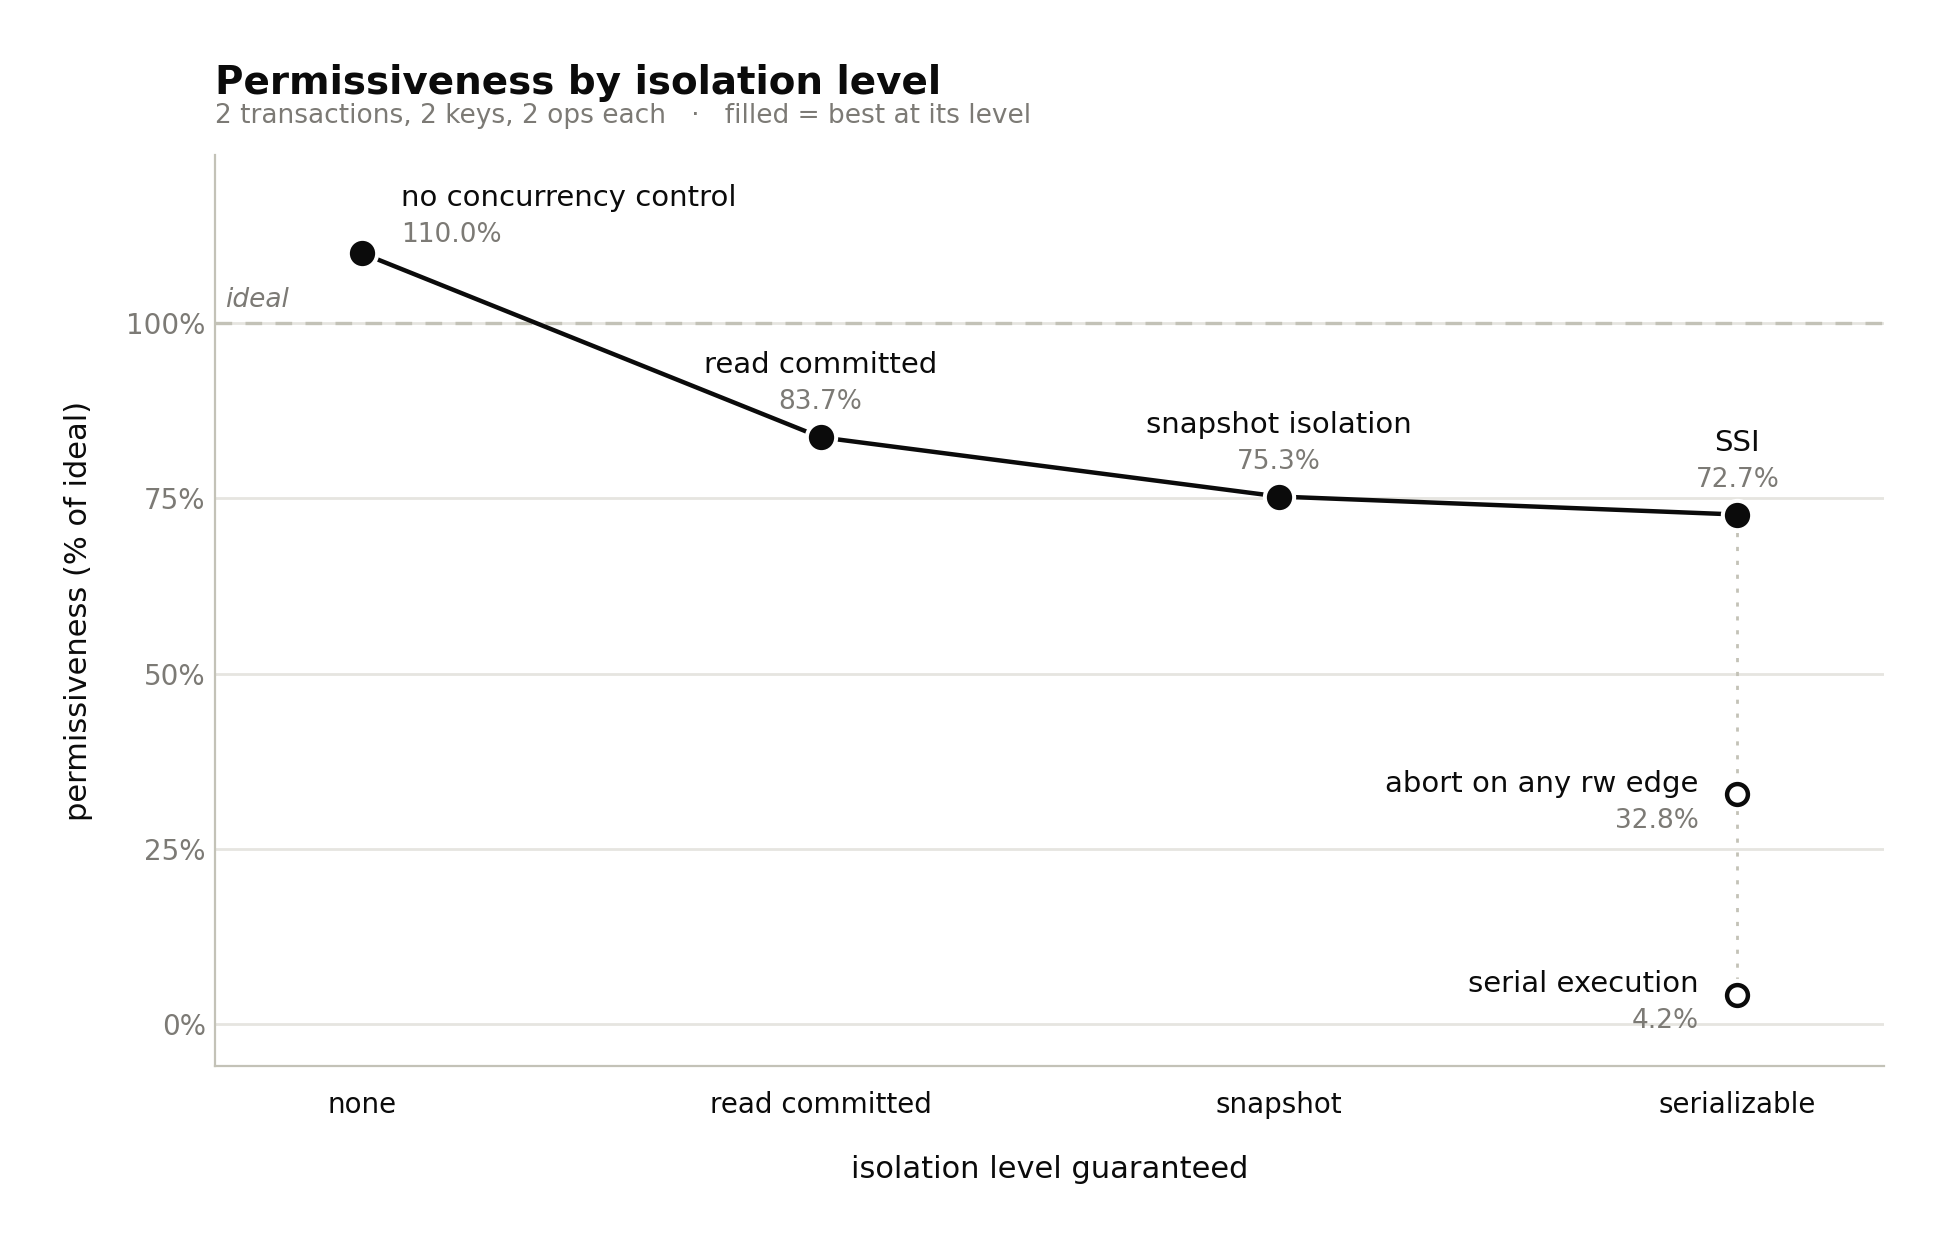
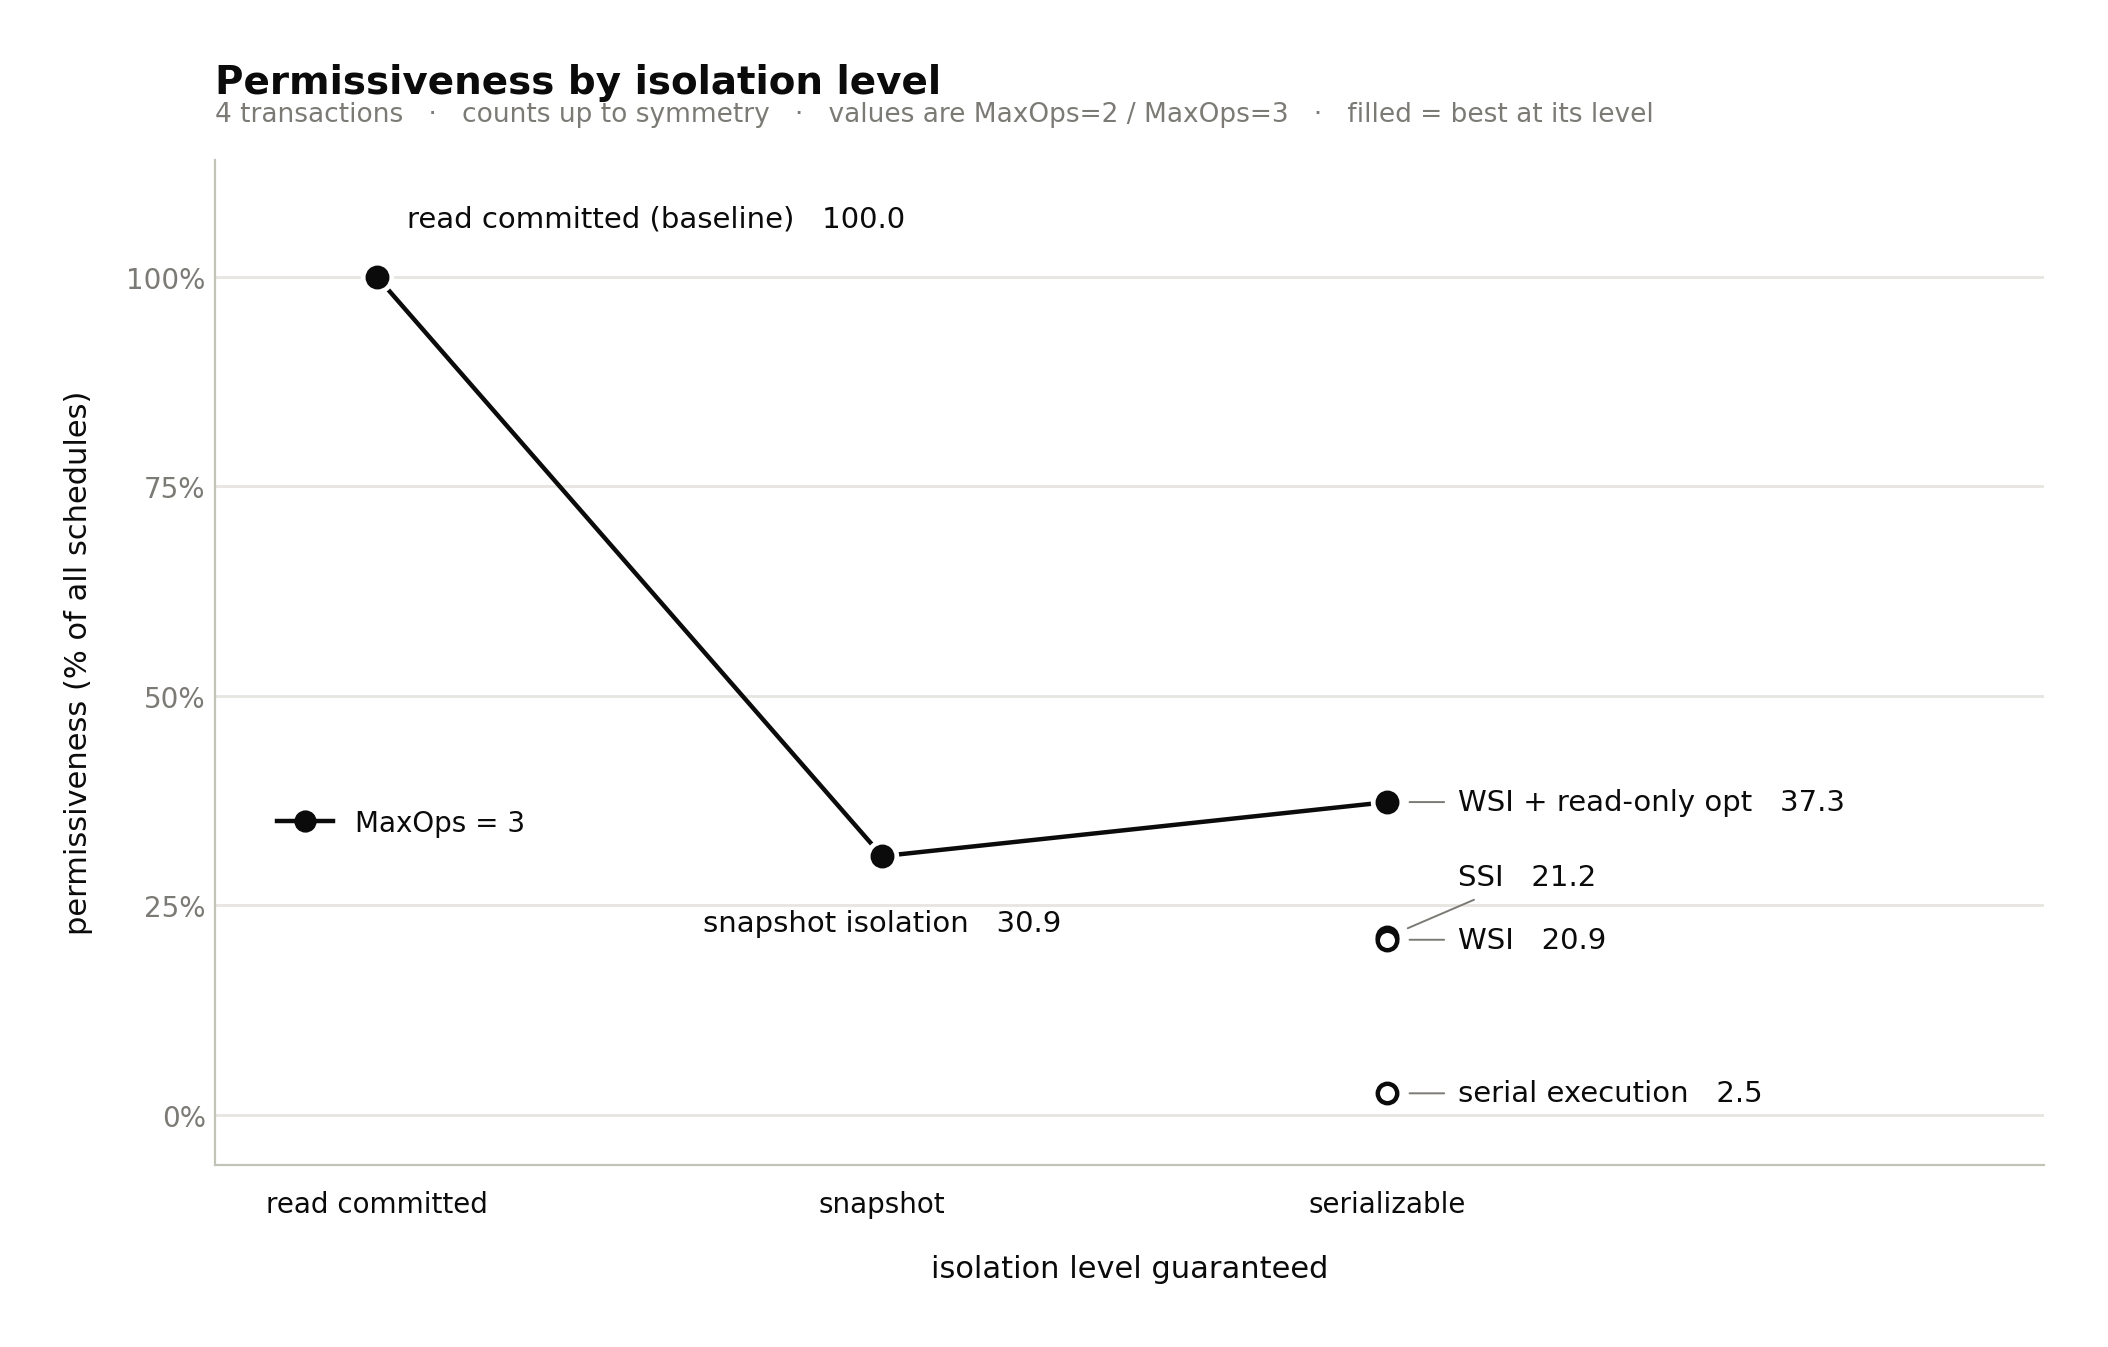
Save edits

diff --git a/_drafts/2026-08-19-txn-permissiveness-checking.md b/_drafts/2026-08-19-txn-permissiveness-checking.md
@@ -1,46 +1,65 @@
 ---
 layout: post
-title:  "Modeling the Transactional Permissiveness Frontier"
+title:  "Modeling the Isolation Permissiveness Frontier"
 categories: databases transactions programming
 ---
 
-If we want to formalize and compare concurrency control algorithms for different transaction isolation levels, we can compare them at a coarse level by what isolation guarantee they provide. In other words, what set of histories (or serializability anomalies) do they prevent? From a more fine-grained perspective, though, this may not be sufficient to adequately capture the subtle differences between implementations that provide the same high level isolation guarantees, or provide different isolation guarantees with different approaches.
+If we want to formalize and compare concurrency control algorithms for different transaction isolation levels, we can analyze them at a coarse level by what isolation guarantee they provide. From a more fine-grained perspective, though, this may not be sufficient to adequately capture the subtle differences between algorithms that provide the same isolation guarantees, or provide different isolation guarantees with different approaches.
 
-As we explored briefly in prior work, we can try to do this through the lens of transaction *permissiveness*. We've touched upon this idea briefly in prior work, but we explore how we can model and check this property in a bit more depth. This also better illustrates a formal methods use case that extends beyond just binary safety or correctness verification, but allows us to measure quantitative protocol properties more precisely.
+<div align="center">
+  <img width="450px" src="/assets/isolation_pareto_frontier (3).png" alt="Pareto frontier diagram" style="border:2px solid #aaa; padding:12px; display:inline-block; border-radius:10px;" />
+</div>
+
+
+We can try to do this through the lens of transactional *permissiveness*. We've touched upon this idea briefly in prior work [[1](https://www.mongodb.com/company/blog/engineering/formal-methods-beyond-correctness-isolation-permissiveness-distributed-transactions),[2](https://dl.acm.org/doi/10.14778/3750601.3750626)], but we can explore how to model and check this property in a bit more depth. This also illustrates a formal modeling use case that extends beyond just binary safety or correctness verification, but allows us to measure quantitative protocol properties more precisely.
 
 We can pursue this analysis a bit further by examining different concrete algorithms for achieving isolation levels and comparing them formally along both a correctness and permissiveness frontier. That is, permissiveness in this sense gives us a lightweight way to consider isolation algorithms not only on their correctness but whether they achieve that goal through an overly restrictive approach or not.
 
 A good example of this is to examine a range of common protocol techniques along a spectrum of isolation guarantees. Specifically, we can examine different, optimistic concurrency control techniques for providing serializability, as well as classic approach to snapshot isolation. Approximating a permissiveness metric in a quantitiatve way also lets us examine given algorithms on a "correctness vs. performance" frontier.
 
+## Permissiveness Modeling in Depth
+
 To measure permissiveness in an approximate way, we can take a formal, TLA+ specification of a given transaction isolation algorithm and use a model checker for exhaustively exploring its reachable behaviors. For optimistic concurrency control algorithms, we can build a model that is quite abstract, but still lets us probe the behaviors of different algorithms. Concretely, we can imagine an abstract model of this family of algorithms as a setting where each transaction can either *Begin*, *Commit* or *Execute*, and we operate over a fixed, finite set of transaction ids, and keys. The *Begin* and *Commit* actions are straightforward, and the *Execute* action is important as it chooses a fixed set of keys to read and set of keys to write, atomically. 
 
 This approach is actually able to capture a relatively wide variety of optimistic concurrency control algorithms that complete validation on commit (e.g. not eargerly upon first conflict). That is, for algorithms that execute against a snapshot, while they are executing, other concurrent transactions don't affect their possible behavior, and their commit validation decision is dependent only on the set of keys they read or wrote (and when the transaction started). So, this helps provide a tractable formal model of transaction execution while still being general enough to capture a variety of algorithms. 
 
-We can start our permissiveness analysis by looking at a finite configuration with 4 transactions, 3 keys, and a maximum of 3 operations executed per transaction. We then measure permissiveness across the set of algorithms below, some at serializability and others at snapshot isolation. We compute this metric by taking the TLC model checker and modifying it slightly. In particular, TLC by default will hash states into *state fingerprints* as they are explored, and stored these fingerprints in a hash table, as it executes a breadth-first search over the state graph. For our use case, we can use these hashes in a modified way to compute the total number of unique transactional histories as we go. That is, by essentially hashing just the *ops* state variable for each reachable state independently, and tracking this in its own "projected" state space hash set. We then use the final cardinality of this set to as our raw computed permissiveness metric for that algorithm.
+We compute this metric by taking the TLC model checker and modifying it slightly. In particular, TLC by default will hash states into *state fingerprints* as they are explored, and stored these fingerprints in a hash table, as it executes a breadth-first search over the state graph. For our use case, we can use these hashes in a modified way to compute the total number of unique transactional histories as we go. That is, by essentially hashing just the *ops* state variable for each reachable state independently, and tracking this in its own "projected" state space hash set. We then use the final cardinality of this set to as our raw computed permissiveness metric for that algorithm.
+
+## Examining OCC Algorithms
+
+We can start our permissiveness analysis by looking at a finite configuration with 4 transactions, 3 keys, and a maximum of 3 operations executed per transaction. We then measure permissiveness across the set of algorithms below, some at serializability and others at snapshot isolation. 
 
 <div style="text-align: center;">
   <img width="600px" src="/assets/permissiveness_by_isolation.png" alt="Pareto frontier diagram" />
 </div>
 
-An important and interesting observation here is that we would naturally expect snapshot isolation to be "northwest" of any serializable algorithm. That is, it should be natural that any serializable algorithm will not be *more* permissive than snapshot isolation. Similarly, within the space of serializable algorithms, we can look at the different algorithms relationship to each other. The SSI and WSI .
+An interesting observation here is that we would naturally expect snapshot isolation to be "northwest" of any serializable algorithm. That is, it should be natural that any serializable algorithm will not be *more* permissive than snapshot isolation. Similarly, within the space of serializable algorithms, we can look at the different algorithms relationship to each other. The SSI and WSI .
 
-## Workload-Dependent Analysis
 
-This doesn't quite tell us the whole picture, though, since permissiveness is a nice metric in some cases but in other cases, for example, when algorithms are not strictly subsets of each other, it is harder to get a sense of how permissiveness is effectively "distributed across behaviors"
-That is, more practically, we may also often care about the *workload-dependent* properties of these algorithms. So, we can also examine workload-specific permissiveness i.e. permissiveness under certain assumptions on the operations that occur in transactions. One concrete version of this is to consider measuring across different read/write ratios. Even though our model is quite abstract, we can consider doing this by looking at two different read/write ratios by having each transaction skew 1/3 of its operations to reads or 1/3 of its operations to writes. This gives us two curves to examine and see how the permissiveness dynamics differ under the assumption of skewed read/write workloads.
+It is also useful to explore to what extent these metrics are stable across varying finite configuration parameter sizes.
+
+## Workload Dependence
+
+This doesn't quite tell us the whole picture, though, since permissiveness is a nice metric in some cases but in other cases, for example, when algorithms are not strictly subsets of each other, it is harder to get a sense of how the permissiveness metric is effectively "distributed across behaviors".
+That is, more practically, we may often care about the *workload-dependent* permissiveness properties of these algorithms. 
+<!-- So, we can also examine workload-specific permissiveness i.e. permissiveness under certain assumptions on the operations that occur in transactions.  -->
+
+One concrete version of this is to consider measuring across different read/write ratios, as we might do typically in a microbenchmarking evaluation.  Even though our formal model is quite abstract, we can consider doing this by looking at two different read/write ratios by having each transaction skew 1/3 of its operations to reads or 1/3 of its operations to writes. This gives us two curves to examine and see how the permissiveness dynamics differ under the assumption of skewed read/write workloads.
 
 <div style="text-align: center;">
-  <img width="600px" src="/assets/permissiveness_by_isolation.png" alt="Pareto frontier diagram" />
+  <img width="600px" src="/assets/permissiveness_by_workload.png" alt="Pareto frontier diagram" />
 </div>
 
-We can observe that, as expected, snapshot isolation's permissiveness is still higher than SSI regardless of read/write skew. This makes sense since SSI is strictly stronger commit validation check. It is clear, though, that SI obviously performs better from a permissiveness standpoint under read-heavy workloads. Interestingly, WSI, which only aborts on read-write transactions, has a similar inverted pattern, and its permissiveness is not significantly different from SI under read-heavy workloads.
+We can observe that, as expected, snapshot isolation's permissiveness is still higher than SSI regardless of read/write skew. This makes sense since SSI uses a strictly stronger commit validation check, as it layers [*dangerous structure* detection](https://dl.acm.org/doi/10.1145/1620585.1620587) on top of existing snapshot isolation systems. It is clear, though, that SI obviously performs better from a permissiveness standpoint under read-heavy workloads. Interestingly, WSI, which only aborts on read-write transactions, has a similar inverted pattern, and its permissiveness is not significantly different from SI under read-heavy workloads.
 
 
-## Final Thoughts
+## Related Work
 
-This is a nice way te use model checking and simulation tools to examine quantitative properties of different algorithms. Often examining only binary notions of safety or liveness are not sufficient to adequately compare algorithmic beahviors at a finer-grained level. Moreover, this approach helps us understand concretely where an approach lies on the optimality frontier, and whether different changes can help us move closer to this frontier. In essence, this can be seen as a kind of very high fidelty and rigorous simulation, but one with maximum controllability and observability over the fundamental algorithmic characteristics. 
+This is a nice way to use model checking and simulation tools to examine quantitative properties of transaction concurrency control algorithms. Often examining only binary notions of safety or liveness are not sufficient to adequately compare algorithmic beahviors at a finer-grained level. Moreover, this approach helps us understand concretely where an approach lies on the optimality frontier, and whether different changes can help us move closer to this frontier. In essence, this can be seen as a kind of very high fidelty and rigorous simulation, but one with maximum controllability and observability over the fundamental algorithmic characteristics. 
 
-Building much more efficient checking techniques for these types of properties remains an interesting open question and future topic to explore. We believe such approaches may have similarities to other, recent techniques for [checking quantitative hyperproperties](https://arxiv.org/abs/1905.13514), which are similar in that they aim to capture quantitative metrics over a protocol's entire set of reachable states. The theoretical literature on [permissiveness in transactional memory systems](https://infoscience.epfl.ch/server/api/core/bitstreams/a83c2ef3-e03d-4016-b362-4c8b624f6830/content) may also provide inspiration.
+Building more efficient checking techniques for these types of properties remains an interesting open question and future topic to explore e.g. we are still limited to analyses at relatively tiny model sizes. We believe such approaches may have similarities to other, recent techniques for [checking quantitative hyperproperties](https://arxiv.org/abs/1905.13514), which are similar in that they aim to capture quantitative metrics over a protocol's entire set of reachable states. The theoretical literature on [permissiveness in transactional memory systems](https://infoscience.epfl.ch/server/api/core/bitstreams/a83c2ef3-e03d-4016-b362-4c8b624f6830/content) may also provide inspiration.
+
+There is also work such as the [Serial Safety Net](https://dl.acm.org/doi/10.1145/2771937.2771949) is another prior example of addressing informally the concept of transactional performance and correctness tradeoffs. They don't explicitly formalize a permissiveness notion, but consider different algorithms within a similar framework.
 
 
 
